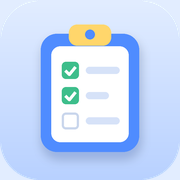
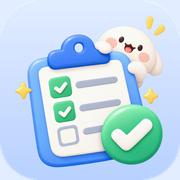
앱 아이콘 교체
Claude-Session: https://claude.ai/code/session_01MNxgdbpeRP4z7TFiXQzHYs

diff --git a/sw.js b/sw.js
@@ -1,5 +1,5 @@
 // 앱 파일을 폰에 저장해 두고 인터넷 없이도 열리게 해요.
-const VERSION = 'audit-v16';
+const VERSION = 'audit-v17';
 const SHELL = ['./', 'index.html', 'xlsx.full.min.js', 'char-default.png', 'firebase-config.js', 'firebase-sync.js', 'manifest.webmanifest', 'icon-192.png', 'icon-512.png', 'apple-touch-icon.png'];
 
 self.addEventListener('install', e => {
